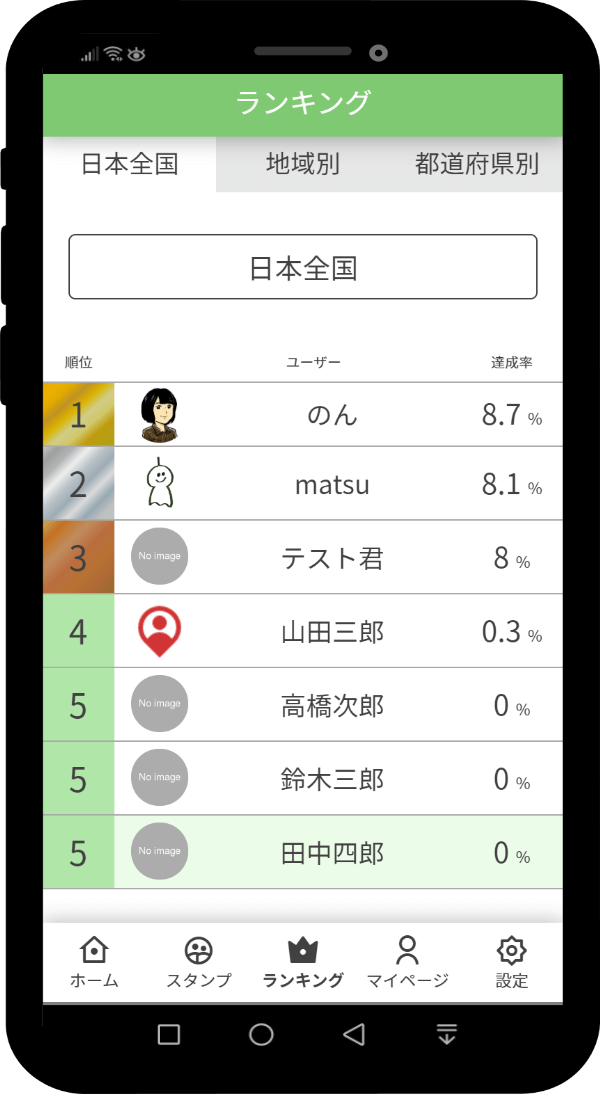
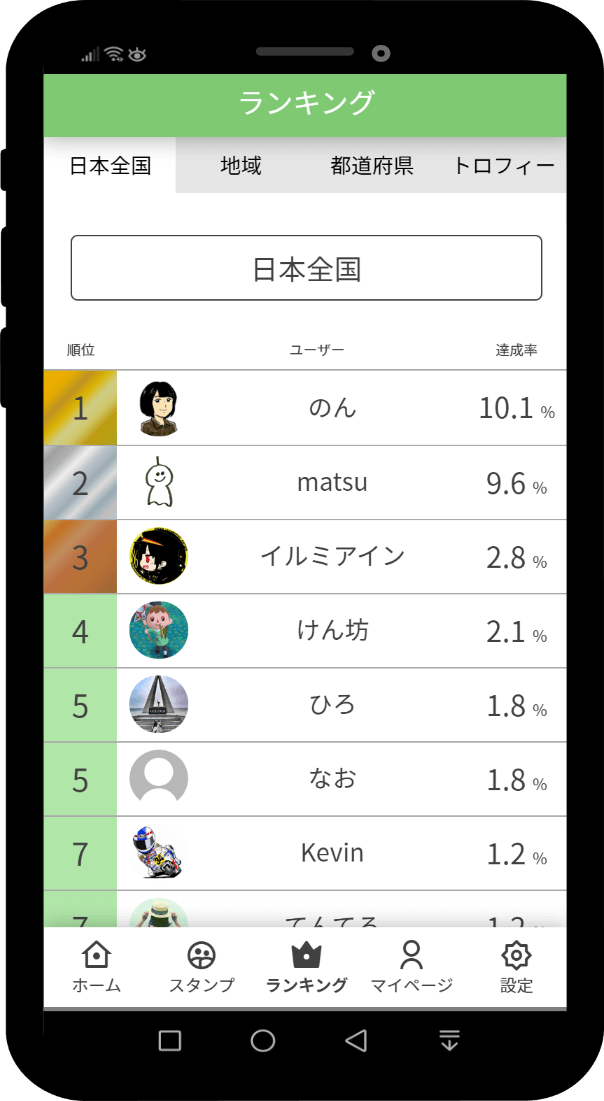
ss差し替え

diff --git a/works/michimegu/index.html b/works/michimegu/index.html
@@ -119,7 +119,7 @@
             <img src="./img/ss_ranking.png" srcset="./img/ss_ranking.png 1x,
     ./img/ss_ranking@2x.png 2x" alt="全国、地域、都道府県別にランキング表示">
           </div>
-          <p>全国、地域、都道府県別にランキング表示</p>
+          <p>全国、地域、都道府県、獲得トロフィー別にランキング表示</p>
         </li>
         <li>
           <div class="img-box">

diff --git a/works/michimegu/css/michimegu.css b/works/michimegu/css/michimegu.css
@@ -261,7 +261,7 @@ main section.about {
    ---------------------------------------- */
 .news-area .news {
   margin-top: 30px;
-  max-height: 500px;
+  max-height: 400px;
   overflow: auto;
 }
 .news-area a {
